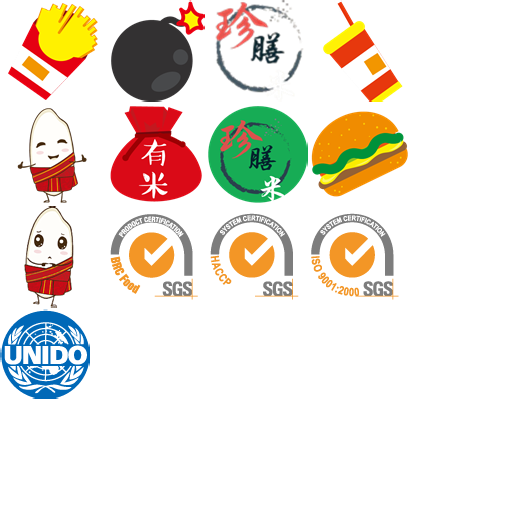
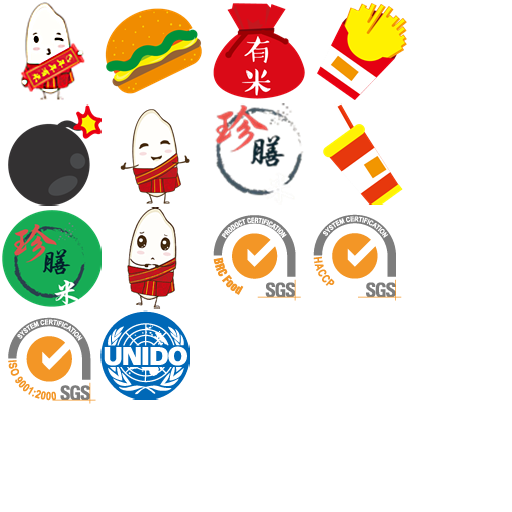
分数显示OK

Changed region(s): [[0.0, 0.0, 0.8125, 0.7812]]

diff --git a/Scripts/CatchGame.js b/Scripts/CatchGame.js
@@ -8,12 +8,23 @@ window.CatchGame = qc.CatchGame = {
 
     RAISE_LEVEL : -20,
     SEA_LEVEL : 980,
+    SPEAK_BOX_MIX_WIDTH : 600,
 
     DATA_SOURCE : [
-        { id: 3, icon: "3.png", score: 10, noRepeatRadius: 500, noOtherRadius: 200 },
-        { id: 0, icon: "0.png", score: 10, noRepeatRadius: 300, noOtherRadius: 200 },
-        { id: 1, icon: "1.png", score: 10, noRepeatRadius: 180, noOtherRadius: 100 },
-        { id: 2, icon: "2.png", score: 10, noRepeatRadius: 180, noOtherRadius: 100 },
+        { id: 0, icon: "13.png", score: 10, noRepeatRadius: 1500, noOtherRadius: 160 },
+        { id: 1, icon: "12.png", score: 10, noRepeatRadius: 1500, noOtherRadius: 160 },
+        { id: 2, icon: "11.png", score: 10, noRepeatRadius: 1500, noOtherRadius: 160 },
+        { id: 3, icon: "10.png", score: 10, noRepeatRadius: 1500, noOtherRadius: 160 },
+        { id: 4, icon: "7.png", score: 1, noRepeatRadius: 150, noOtherRadius: 160 },
+        { id: 5, icon: "8.png", score: 1, noRepeatRadius: 150, noOtherRadius: 160 },
+        { id: 6, icon: "9.png", score: 1, noRepeatRadius: 150, noOtherRadius: 160 },
+        { id: 7, icon: "1.png", score: -3, noRepeatRadius: 150, noOtherRadius: 160 },
+        { id: 8, icon: "2.png", score: -3, noRepeatRadius: 150, noOtherRadius: 160 },
+        { id: 9, icon: "3.png", score: -3, noRepeatRadius: 150, noOtherRadius: 160 },
+        { id: 10, icon: "0.png", score: -100, noRepeatRadius: 1000, noOtherRadius: 160 },
+        { id: 11, icon: "4.png", score: 5, noRepeatRadius: 500, noOtherRadius: 160 },
+        { id: 12, icon: "5.png", score: 5, noRepeatRadius: 500, noOtherRadius: 160 },
+        { id: 13, icon: "6.png", score: 5, noRepeatRadius: 500, noOtherRadius: 160 },
     ],
 
     status : "run",
@@ -25,6 +36,9 @@ window.CatchGame = qc.CatchGame = {
 // 游戏逻辑初始化
 qc.initGame = function(game) {
 
+    // 全局通知事件
+    CatchGame.itemSignal = new qc.Signal();
+
     // 初始化捕获者
     CatchGame.catcher = new qc.CatchGame.CatcherLogic();
 
@@ -35,7 +49,21 @@ qc.initGame = function(game) {
     CatchGame.fallitemPool = new qc.CatchGame.FallItemPoolLogic();
 
     //初始化提示语言
+    CatchGame.speaker = new qc.CatchGame.SpeakerLogic();
 
+    // 设置监听全局消息
+    CatchGame.itemSignal.add(qc.CatchGame.onItemSignal);
+};
+
+
+qc.CatchGame.onItemSignal = function(obj){
+    //碰撞结果事件：碰撞加减分，碰撞提示语，碰撞特殊信息，碰撞游戏结束
+    switch(obj.eventType){
+        case 1:
+            qc.CatchGame.speaker.setScore(obj);
+        default:
+            break;
+    }
 };
 
 qc.CatchGame.restart = function(){
@@ -48,10 +76,26 @@ qc.CatchGame.restart = function(){
     //初始化提示语言
 }
 
-qc.CatchGame.updateScore = function(v){
-    //更新分数
-};
 
+//绑定对象到
+qc.CatchGame.bandUIObj  = function(uiObj){
+    this.uiObj = uiObj;
+}
+
+//游戏是否在运行
+qc.CatchGame.isRunning = function(){
+    var self = this;
+    switch(self.status){
+        case "run":
+            return true;
+            break;
+        case "stop":
+        default:
+            return false;
+    }
+}
+
+//坐标是否和当前捕获者有碰撞
 qc.CatchGame.isCrash = function(pos){
     var crash_box = qc.CatchGame.catcher.getDetectBox();
     var crash2 = {
@@ -67,21 +111,4 @@ qc.CatchGame.isCrash = function(pos){
         };
     };
     return false;
-}
-
-
-qc.CatchGame.bandUIObj  = function(uiObj){
-    this.uiObj = uiObj;
-}
-
-qc.CatchGame.isRunning = function(){
-    var self = this;
-    switch(self.status){
-        case "run":
-            return true;
-            break;
-        case "stop":
-        default:
-            return false;
-    }
 }

diff --git a/Scripts/logic/FallItemLogic.js b/Scripts/logic/FallItemLogic.js
@@ -18,6 +18,7 @@ var FallItemLogic = qc.CatchGame.FallItemLogic = function() {
 FallItemLogic.prototype = {};
 FallItemLogic.prototype.constructor = FallItemLogic;
 
+//更新自己坐标同时，同步到外部元素
 Object.defineProperties(FallItemLogic.prototype, {
     x: {
         get: function() {
@@ -43,7 +44,7 @@ Object.defineProperties(FallItemLogic.prototype, {
     }
 });
 
-
+//初始化
 FallItemLogic.prototype.init = function(id,icon,x,y,noRepeatRadius,noOtherRadius,score) {
     var self = this;
 
@@ -56,6 +57,7 @@ FallItemLogic.prototype.init = function(id,icon,x,y,noRepeatRadius,noOtherRadius
     self.score = score;
 };
 
+//初始化
 FallItemLogic.prototype.initObj = function(Obj) {
     var self = this;
 
@@ -66,6 +68,7 @@ FallItemLogic.prototype.initObj = function(Obj) {
     self.score = Obj.score;
 };
 
+//克隆自身
 FallItemLogic.prototype.clone = function() {
     var self = this;
     var obj = new FallItemLogic();
@@ -79,4 +82,46 @@ FallItemLogic.prototype.clone = function() {
     obj.score = self.score;
 
     return obj;
+};
+
+//对象用于分派的信息
+FallItemLogic.prototype.getInfo = function(status) {
+    var self = this;//TODO: 被销毁后返回的内容，用于设置到对话框
+    var info = {
+        eventType : 1,
+        score : self.score,
+    };
+    return info;
+};
+
+//碰撞返回信息
+FallItemLogic.prototype.getCrashInfo = function(status) {
+    // var self = this;//TODO: 被销毁后返回的内容，用于设置到对话框
+    // var info = {
+    //     score : self.score,
+    // };
+    // console.log('item getInfo');
+    // return info;
+};
+
+//跌落返回信息
+FallItemLogic.prototype.getFallInfo = function(status) {
+    // var self = this;//TODO: 被销毁后返回的内容，用于设置到对话框
+    // var info = {
+    //     score : self.score,
+    // };
+    // console.log('item getInfo');
+    // return info;
+};
+
+//如果是某种表情则替换
+FallItemLogic.prototype.onChangeEvent = function() {
+    var self = this;
+    if (self.icon == "7.png" || self.icon == "8.png") {
+        self.o.frame = "9.png";
+        self.timer = setTimeout(function(){
+            clearTimeout(self.timer);
+            self.o.frame = self.icon;
+        }, 1000);
+    };
 };

diff --git a/Scripts/logic/FallItemPoolLogic.js b/Scripts/logic/FallItemPoolLogic.js
@@ -47,6 +47,8 @@ FallItemPoolLogic.prototype.checkFalloutPoolObject = function() {
             var effect = value.o.getScript("qc.engine.FallItemUI");
             effect.onFallout();
             indexgroup.push(index);
+            //下落元素跌出屏幕后事件派发
+            qc.CatchGame.itemSignal.dispatch(value.getInfo());
         };
     };
     doPoolObject(self.currentPool,check_fallout);
@@ -61,10 +63,14 @@ FallItemPoolLogic.prototype.checkCrashPoolObject = function() {
     //处理位置偏移
     var check_crash = function(operaPool,index,value){
         if (qc.CatchGame.isCrash({x:value.x,y:value.y})) {
+            //下落元素显示效果
             var effect = value.o.getScript("qc.engine.FallItemUI");
+            effect.score = value.score;
             effect.onCrash();
+            //下落元素删除准备
             indexgroup.push(index);
-            console.log("score:",value.score);
+            //下落元素触碰后事件派发
+            qc.CatchGame.itemSignal.dispatch(value.getInfo());
         };
     };
     doPoolObject(self.currentPool,check_crash);
@@ -122,13 +128,14 @@ FallItemPoolLogic.prototype.delItemIndexArr = function(indexgroup) {
     arrayDelIndexGroup(indexgroup,self.currentPool);
 };
 
-
+//返回自身
 FallItemPoolLogic.prototype.getPool = function() {
     return this.currentPool;
 };
 
-
-FallItemPoolLogic.prototype.checkPoolNeedNew = function() {
+//检测是否最后一个元素已经跌过出生线了，是的话返回真
+//根据这个判断是不是需要增加新元素
+FallItemPoolLogic.prototype.isPoolNeedNew = function() {
     var self = this;
     if (self.currentPool.length > 0) {
         if (self.currentPool[self.currentPool.length -1].y > self.raiseLine) {

diff --git a/Scripts/ui/SpeakerUI.js b/Scripts/ui/SpeakerUI.js
@@ -1,0 +1,43 @@
+'use strict';
+
+
+var SpeakerUI = qc.defineBehaviour('qc.engine.SpeakerUI', qc.Behaviour, function() {
+
+    var self = this;
+
+    
+}, {
+    // BackgroundNode: qc.Serializer.NODE,
+    TextNode: qc.Serializer.NODE,
+});
+
+
+SpeakerUI.prototype.awake = function() {
+    var self = this,
+        o = self.gameObject;
+
+    
+    //关联本对象和逻辑对象
+    qc.CatchGame.speaker.init(self);
+};
+
+
+//绑定自己到游戏实际逻辑对象
+SpeakerUI.prototype.init = function(logicObj,detectArea) {
+    var self = this,
+        o = self.gameObject;
+
+
+};
+//更新游戏实际逻辑对象位置
+SpeakerUI.prototype.setWord = function(text){
+    var self = this;
+
+
+    self.TextNode.text = text;
+    var nativeSize = self.TextNode.nativeSize;
+
+    //匹配文字宽度
+    // self.BackgroundNode.width = nativeSize.width + 40;
+    // self.BackgroundNode.height = nativeSize.height + 40;
+};

diff --git a/Scripts/logic/SpeakerLogic.js b/Scripts/logic/SpeakerLogic.js
@@ -1,0 +1,36 @@
+"use strict";
+
+/**
+ * 维护分数信息
+ */
+var SpeakerLogic = qc.CatchGame.SpeakerLogic = function() {
+    var self = this;
+
+    self.score = 0;
+};
+SpeakerLogic.prototype = {};
+SpeakerLogic.prototype.constructor = SpeakerLogic;
+
+Object.defineProperties(SpeakerLogic.prototype, {
+});
+
+//设置UI对象
+SpeakerLogic.prototype.init = function(uiObj) {
+    this.uiObj = uiObj;
+};
+
+//设置显示内容
+SpeakerLogic.prototype.eventLisenter = function(score) {
+    var self = this;
+    self.score = score;
+    console.log('SpeakerLogic score:',self.score);
+};
+
+SpeakerLogic.prototype.setScore = function(obj) {
+    var self = this;
+
+    //当前得分字符串
+    self.score += obj.score;
+    var textScore = "Score : " + self.score.toString();
+    self.uiObj.setWord(textScore);
+};

diff --git a/Scripts/uiRoot/UIManager.js b/Scripts/uiRoot/UIManager.js
@@ -54,7 +54,7 @@ UIManager.prototype.createItems = function() {
 
 UIManager.prototype.update = function() {
     var self = this;
-	//TODO: 调用游戏类进行判断，游戏是否结束，是否碰撞得分，是否超出边界删除对象
+	//调用游戏类进行判断，游戏是否结束，是否碰撞得分，是否超出边界删除对象
     if (qc.CatchGame.isRunning()) {
         self.fallPool.fallAll();
         self.fallPool.fallOut();//TODO: 考虑这个是不是移动到自定义计时器

diff --git a/Scripts/ui/FallItemPoolUI.js b/Scripts/ui/FallItemPoolUI.js
@@ -56,7 +56,7 @@ FallItemPoolUI.prototype.crashUp = function() {
 };
 
 FallItemPoolUI.prototype.need2Create = function() {
-    return qc.CatchGame.fallitemPool.checkPoolNeedNew();
+    return qc.CatchGame.fallitemPool.isPoolNeedNew();
 };
 
 
